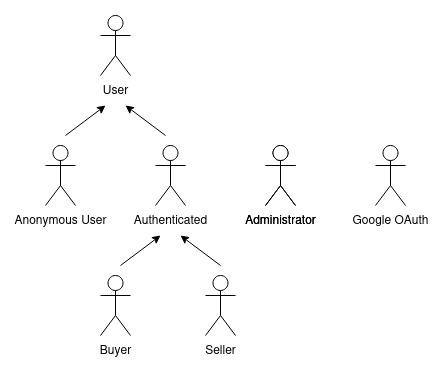
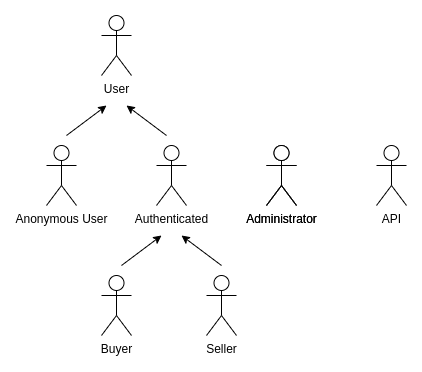
generalized the API concept

diff --git a/README.md b/README.md
@@ -63,7 +63,8 @@ The following artifact contains the specifications about the actors and their us
 | Buyer                | Registered users who can browse products, purchase CDKs, and create wishlists and engage with reviews.      |
 | Seller               | Users who list CDKs for sale and manage their product information and pricing. Cannot buy products.  |
 | Administrator        | Users with full control over the platform, managing product listings, user accounts, and overseeing order processing. Cannot make purchases. |
-| Google OAuth         | Allows users to authenticate using their Google account, allowing for a quick and secure sign-in process. |
+| API                  | A system actor that allows external applications to interact with the platform programmatically, enabling functionalities such as retrieving product information, managing user accounts, and processing payments in several currencies. |
+
 
 **Table 1:** STEAL! Actors description.
 
